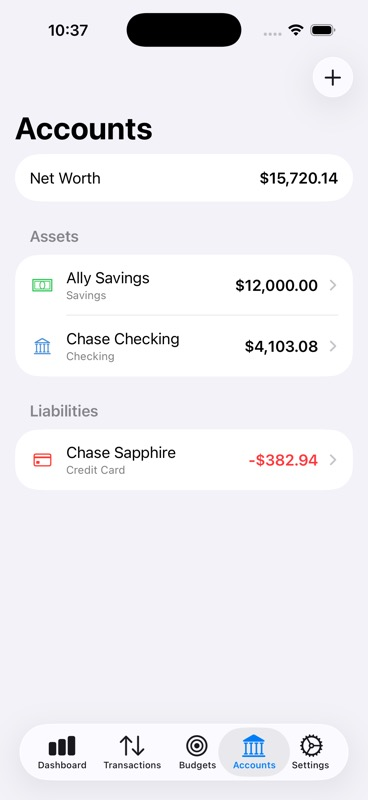
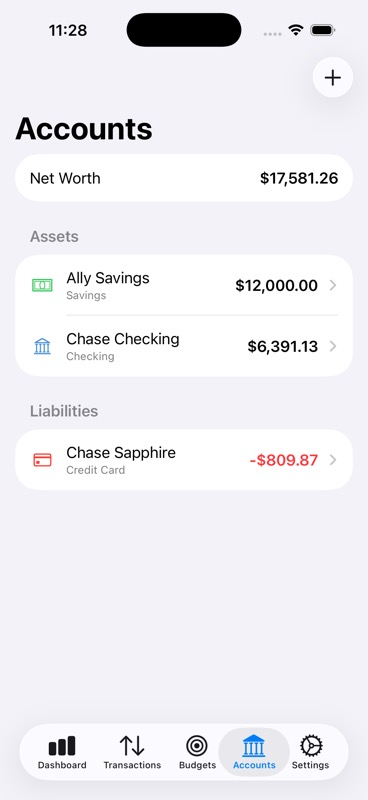
feat: expand DemoDataSeeder to 3 months of history plus an over-budget category
Previously only seeded the current month, so the Balance History
(AccountDetailView) and Spending History (BudgetDetailView) charts
never showed a real multi-point trend in demo/screenshot builds, and
no budget ever exceeded its limit, so the destructive over-budget
progress-bar state was never visually exercised.

- Added last-month and two-months-ago transaction sets (12 each)
  across the same accounts/categories, giving both trend charts
  real month-over-month variation.
- Added a $25 Lyft transaction pushing Transportation ($45+$95+$25 =
  $165) over its $150 budget.
- Transaction count: 18 -> 43. Chase Sapphire balance: -382.94 -> -809.87.
  Both hand-computed and verified against the actual seeded data.

Updated docs/pr-assets/pr98-*.jpg to reflect the new balances and the
over-budget Transportation row.

** TEST SUCCEEDED **
175 test cases passed, 0 failed

diff --git a/FinanceTracker/Debug/DemoDataSeeder.swift b/FinanceTracker/Debug/DemoDataSeeder.swift
@@ -35,12 +35,16 @@ enum DemoDataSeeder {
         let today = Date()
         let monthStart = calendar.date(from: calendar.dateComponents([.year, .month], from: today)) ?? today
         let daysElapsed = max(calendar.dateComponents([.day], from: monthStart, to: today).day ?? 0, 0)
-        func dateInMonth(_ offset: Int) -> Date {
-            let clamped = min(offset, daysElapsed)
-            return calendar.date(byAdding: .day, value: clamped, to: monthStart) ?? monthStart
+        /// `monthsAgo: 0` clamps to today (can't date a transaction in the future);
+        /// earlier months are already fully elapsed, so `day` is used as-is.
+        func date(monthsAgo: Int, day: Int) -> Date {
+            let targetMonthStart = calendar.date(byAdding: .month, value: -monthsAgo, to: monthStart) ?? monthStart
+            let offset = monthsAgo == 0 ? min(day, daysElapsed) : day
+            return calendar.date(byAdding: .day, value: offset, to: targetMonthStart) ?? targetMonthStart
         }
 
-        let transactionSeeds: [(day: Int, amount: Decimal, payee: String, category: String, type: TransactionType, account: Account)] = [
+        typealias TransactionSeed = (day: Int, amount: Decimal, payee: String, category: String, type: TransactionType, account: Account)
+        let currentMonthSeeds: [TransactionSeed] = [
             (1, 84.32, "Whole Foods Market", "Groceries", .debit, checking),
             (2, 6.75, "Blue Bottle Coffee", "Coffee", .debit, creditCard),
             (3, 45.00, "Shell Gas Station", "Transportation", .debit, checking),
@@ -54,22 +58,59 @@ enum DemoDataSeeder {
             (14, 95.00, "Uber", "Transportation", .debit, creditCard),
             (16, 210.00, "Best Buy", "Shopping", .debit, checking),
             (18, 48.60, "Olive Garden", "Dining", .debit, creditCard),
+            // Pushes Transportation ($45 + $95 + $25 = $165) over its $150 budget —
+            // demos the over-budget red progress-bar/remaining-amount state, which
+            // otherwise never appears in seeded data.
+            (19, 25.00, "Lyft", "Transportation", .debit, creditCard),
             (20, 140.00, "PG&E", "Utilities", .debit, checking),
             (22, 1850.00, "Acme Corp Payroll", "Salary", .credit, checking),
             (24, 55.20, "Whole Foods Market", "Groceries", .debit, checking),
             (26, 12.00, "AMC Theatres", "Entertainment", .debit, creditCard),
             (28, 38.75, "Sweetgreen", "Dining", .debit, creditCard),
         ]
-        for seed in transactionSeeds {
-            let transaction = Transaction(
-                date: dateInMonth(seed.day),
-                amount: seed.amount,
-                payee: seed.payee,
-                type: seed.type,
-                account: seed.account,
-                category: categories[seed.category]
-            )
-            context.insert(transaction)
+        // Two more months of history so the Balance History (AccountDetailView) and
+        // Spending History (BudgetDetailView) charts show a real multi-point trend
+        // instead of a single flat month.
+        let lastMonthSeeds: [TransactionSeed] = [
+            (2, 2200.00, "Landlord LLC", "Rent", .debit, checking),
+            (4, 91.20, "Whole Foods Market", "Groceries", .debit, checking),
+            (6, 1850.00, "Acme Corp Payroll", "Salary", .credit, checking),
+            (8, 18.40, "Sweetgreen", "Dining", .debit, creditCard),
+            (10, 5.25, "Blue Bottle Coffee", "Coffee", .debit, creditCard),
+            (13, 102.00, "Uber", "Transportation", .debit, creditCard),
+            (15, 58.75, "Trader Joe's", "Groceries", .debit, checking),
+            (18, 145.00, "PG&E", "Utilities", .debit, checking),
+            (20, 1850.00, "Acme Corp Payroll", "Salary", .credit, checking),
+            (22, 15.99, "Netflix", "Entertainment", .debit, creditCard),
+            (25, 44.10, "Chipotle", "Dining", .debit, creditCard),
+            (29, 175.00, "Best Buy", "Shopping", .debit, checking),
+        ]
+        let twoMonthsAgoSeeds: [TransactionSeed] = [
+            (1, 2100.00, "Landlord LLC", "Rent", .debit, checking),
+            (3, 78.40, "Whole Foods Market", "Groceries", .debit, checking),
+            (5, 1850.00, "Acme Corp Payroll", "Salary", .credit, checking),
+            (6, 22.15, "Chipotle", "Dining", .debit, creditCard),
+            (9, 6.75, "Blue Bottle Coffee", "Coffee", .debit, creditCard),
+            (11, 88.00, "Shell Gas Station", "Transportation", .debit, checking),
+            (14, 45.60, "Trader Joe's", "Groceries", .debit, checking),
+            (17, 130.00, "PG&E", "Utilities", .debit, checking),
+            (19, 1850.00, "Acme Corp Payroll", "Salary", .credit, checking),
+            (21, 29.99, "AMC Theatres", "Entertainment", .debit, creditCard),
+            (24, 62.30, "Olive Garden", "Dining", .debit, creditCard),
+            (27, 95.00, "Amazon", "Shopping", .debit, creditCard),
+        ]
+        for (monthsAgo, seeds) in [(0, currentMonthSeeds), (1, lastMonthSeeds), (2, twoMonthsAgoSeeds)] {
+            for seed in seeds {
+                let transaction = Transaction(
+                    date: date(monthsAgo: monthsAgo, day: seed.day),
+                    amount: seed.amount,
+                    payee: seed.payee,
+                    type: seed.type,
+                    account: seed.account,
+                    category: categories[seed.category]
+                )
+                context.insert(transaction)
+            }
         }
 
         let budgetSeeds: [(category: String, limit: Decimal)] = [

diff --git a/FinanceTrackerTests/Debug/DemoDataSeederTests.swift b/FinanceTrackerTests/Debug/DemoDataSeederTests.swift
@@ -14,7 +14,7 @@ struct DemoDataSeederTests {
 
         #expect(try context.fetchCount(FetchDescriptor<Account>()) == 3)
         #expect(try context.fetchCount(FetchDescriptor<FinanceTracker.Category>()) == 9)
-        #expect(try context.fetchCount(FetchDescriptor<Transaction>()) == 18)
+        #expect(try context.fetchCount(FetchDescriptor<Transaction>()) == 43)
         #expect(try context.fetchCount(FetchDescriptor<Budget>()) == 4)
     }
 
@@ -34,7 +34,7 @@ struct DemoDataSeederTests {
         }
 
         #expect(balanceByName["Ally Savings"] == 12000)
-        #expect(balanceByName["Chase Sapphire"] == -382.94)
+        #expect(balanceByName["Chase Sapphire"] == -809.87)
     }
 
     @Test func seedNeverPersistsOutsideInMemoryStore() throws {

diff --git a/CHANGELOG.md b/CHANGELOG.md
@@ -7,6 +7,7 @@ All notable changes to FinanceTracker are documented here.
 ## [Unreleased]
 
 ### Added
+- **`DemoDataSeeder` now covers 3 months of history and an over-budget category** — previously only seeded the current month, so `AccountDetailView`'s Balance History and `BudgetDetailView`'s Spending History charts (both trend across months) never showed a real multi-point trend in `--seedscreenshots`/demo builds, and no seeded budget ever exceeded its limit, so the destructive/over-budget progress-bar state was never visually exercised. Added a Transportation transaction that pushes it $15 over its $150 budget, plus 2 additional months of transactions across the same accounts/categories.
 - **`DashboardView` adopts Glass Cards** — Net Worth and Spending cards now use `Theme.Glass`'s translucent material + tinted gradient + shadow (tokens added in a prior PR), replacing the flat opacity-tint background. The now-dead `Theme.Colors.netWorthCardBackground`/`spendingCardBackground` tokens are removed, along with their `docs/design-system.md` entries; verified visually in both light and Dark Mode.
 - **Category-colored budget progress bars, app-wide** — Dashboard, `BudgetListView`, and `BudgetDetailView` progress bars now tint by `Category.colorHex` instead of a uniform accent color (over-budget red still overrides), reusing the same `Color(hex:)` mechanism `AccountRow` already uses for account icons.
 - **Dashboard spending-by-category chart** — new `Chart`/`BarMark` section showing this month's spend grouped by category, reusing `Theme.Charts.spendingBar` (same convention as `BudgetDetailView`'s existing spending chart). `DashboardViewModel.categorySpending` aggregation reuses `BudgetCalculationService.totalSpent(transactions:)` rather than reimplementing the debit-sum rule inline.
